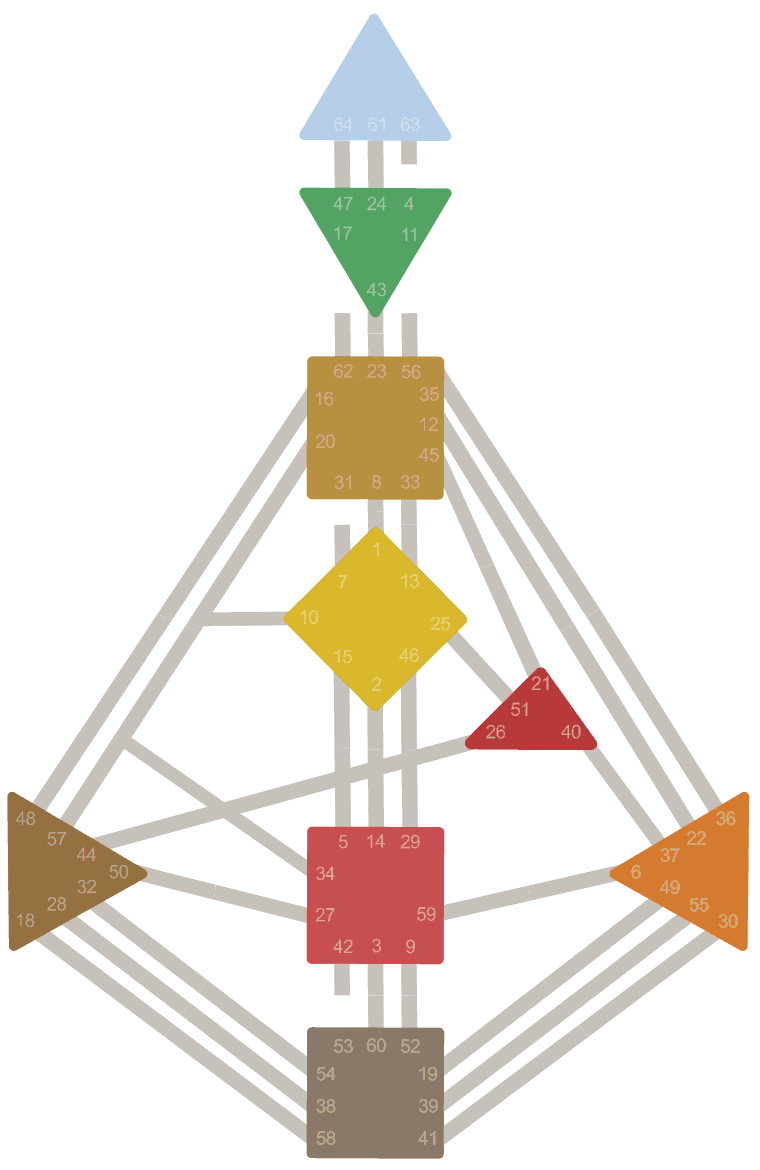
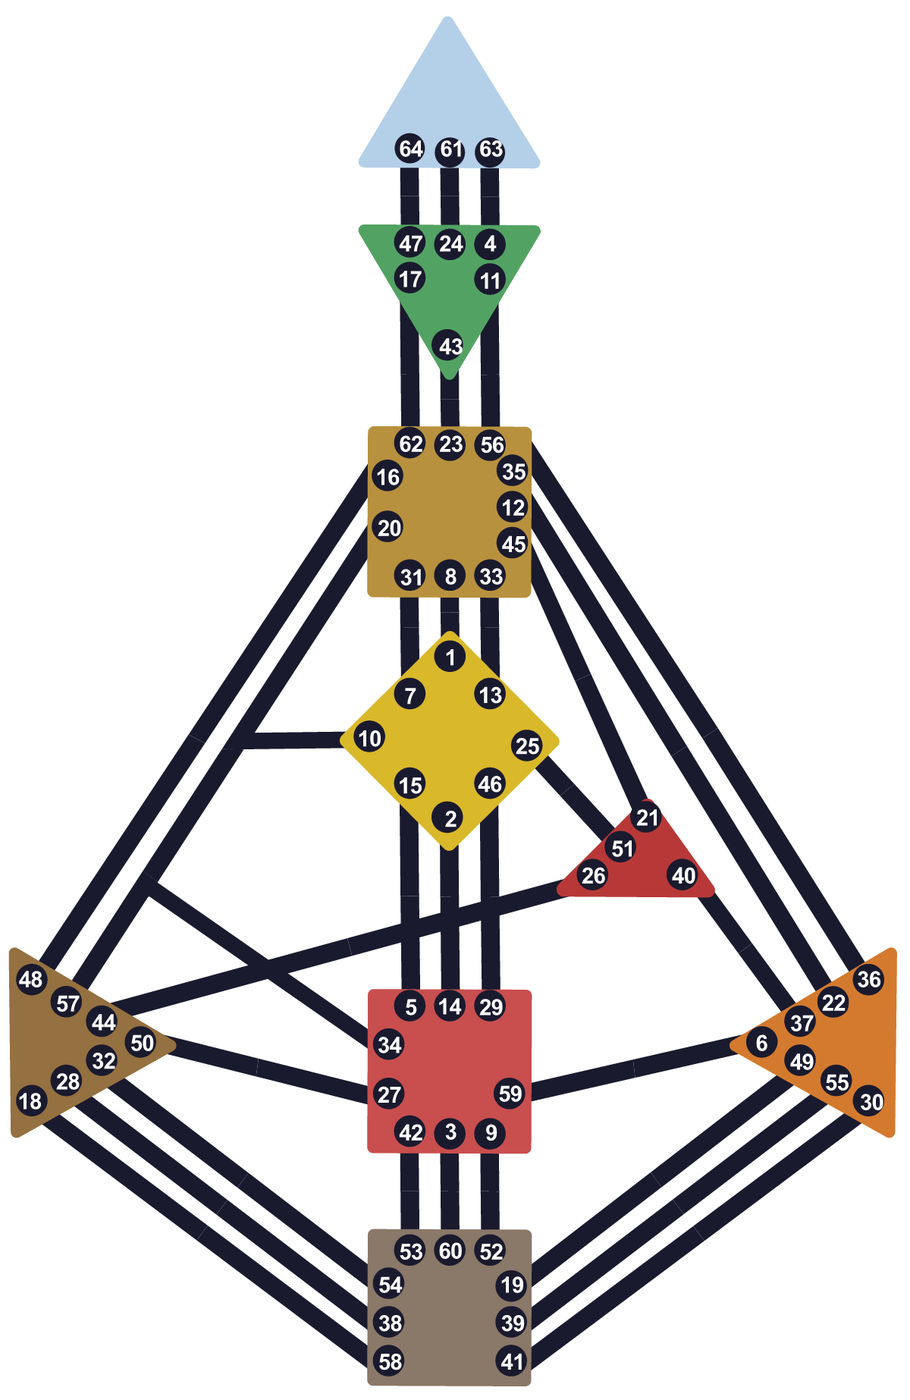
guida: al posto delle illustrazioni, lo zoom sul centro vero del bodygraph
Ogni pagina dei Centri mostra ora un ritaglio del bodygraph sul centro di
cui parla, con le sue porte numerate. La pagina indice mostra la carta
intera. Nuovo script zoom_centri.py per rigenerarle.

Sistemato anche il renderer: nel riordinare i canali riconosceva solo path
e polygon, cosi le cinque porte disegnate come polyline (4, 11, 17, 31, 53)
sparivano dalle immagini PNG e dai PDF del Libretto. Ora riconosce anche
le polyline e, se un elemento resta non riconosciuto, lascia il gruppo
com'e invece di riscriverlo perdendo pezzi.

Il calcolatore nel browser non era toccato: colora per id, che funziona
anche sulle polyline.

Antigravity-Session-ID: 0987b7a5-5ad3-4a1c-a0b9-eafe66b303f5
Antigravity-Session-Path: C:\Users\marco\.gemini\antigravity\brain\0987b7a5-5ad3-4a1c-a0b9-eafe66b303f5

Changed region(s): [[0.0, 0.0923, 0.9987, 0.9846]]

diff --git a/tools/bg5-generator/zoom_centri.py b/tools/bg5-generator/zoom_centri.py
@@ -1,0 +1,127 @@
+# -*- coding: utf-8 -*-
+"""Genera le immagini della guida ai 9 Centri: uno zoom del bodygraph vero
+sul centro di cui parla la pagina, piu' la carta intera per la pagina indice.
+
+    py tools/bg5-generator/zoom_centri.py
+"""
+import io
+import os
+import sys
+
+from PIL import Image
+
+sys.path.insert(0, os.path.dirname(os.path.abspath(__file__)))
+import bodygraph_svg as bg
+
+RADICE_PAGINE = os.path.join(
+    os.path.dirname(os.path.dirname(os.path.dirname(os.path.abspath(__file__)))),
+    "grav-site", "user", "pages", "human-design", "01.centri",
+)
+
+# Porte di ogni centro, come sono disegnate nel chart.svg
+PORTE = {
+    "HEAD":   [64, 61, 63],
+    "AJNA":   [47, 24, 4, 11, 43, 17],
+    "THROAT": [62, 23, 56, 35, 12, 45, 33, 8, 31, 20, 16],
+    "G":      [1, 2, 7, 13, 10, 15, 25, 46],
+    "HEART":  [21, 26, 40, 51],
+    "SPLEEN": [48, 57, 44, 50, 32, 28, 18],
+    "SACRAL": [34, 5, 14, 29, 59, 9, 3, 42, 27],
+    "SOLAR":  [6, 22, 30, 36, 37, 49, 55],
+    "ROOT":   [58, 38, 54, 53, 60, 52, 19, 39, 41],
+}
+
+# cartella della pagina -> (codice centro, slug del file)
+PAGINE = [
+    ("01.sacrale",       "SACRAL", "sacrale"),
+    ("02.gola",          "THROAT", "gola"),
+    ("03.plesso-solare", "SOLAR",  "plesso-solare"),
+    ("04.milza",         "SPLEEN", "milza"),
+    ("05.radice",        "ROOT",   "radice"),
+    ("06.cuore",         "HEART",  "cuore"),
+    ("07.g",             "G",      "g"),
+    ("08.ajna",          "AJNA",   "ajna"),
+    ("09.testa",         "HEAD",   "testa"),
+]
+
+LARGHEZZA_RENDER = 2400   # render pieno, poi si ritaglia
+LATO_MAX = 1100           # lato lungo dell'immagine finale
+PADDING = 0.34            # aria attorno al centro
+
+
+def su_fondo_bianco(img):
+    """Appiattisce la trasparenza su bianco: la scheda della pagina e' bianca."""
+    if img.mode in ("RGBA", "LA"):
+        fondo = Image.new("RGB", img.size, (255, 255, 255))
+        fondo.paste(img, mask=img.split()[-1])
+        return fondo
+    return img.convert("RGB")
+
+
+def ridimensiona(img, lato_max=LATO_MAX):
+    w, h = img.size
+    if max(w, h) <= lato_max:
+        return img
+    k = lato_max / max(w, h)
+    return img.resize((round(w * k), round(h * k)), Image.LANCZOS)
+
+
+def zoom_centro(codice):
+    """Ritaglio quadrato con il centro sempre in mezzo.
+
+    Non uso crop_center_png perche' clampa il riquadro ai bordi della tela:
+    Milza e Plesso Solare stanno sul bordo del bodygraph e finirebbero
+    schiacciati contro il lato dell'immagine. Qui il quadrato puo' uscire
+    dalla tela e lo spazio in piu' resta bianco.
+    """
+    porte = PORTE[codice]
+    png = bg.render_bodygraph_png(
+        {"p_gates": set(porte), "d_gates": set(), "defined_centers": {codice}},
+        width=LARGHEZZA_RENDER,
+    )
+    img = su_fondo_bianco(Image.open(io.BytesIO(png)))
+    larg, alt = img.size
+    sx = larg / bg.SVG_VIEWBOX_W
+    sy = alt / bg.SVG_VIEWBOX_H
+
+    x0, y0, x1, y1 = bg.CENTER_BBOX_SVG[codice]
+    cx, cy = (x0 + x1) / 2, (y0 + y1) / 2
+    lato = max(x1 - x0, y1 - y0) * (1 + 2 * PADDING) / 2
+
+    riquadro = (
+        round((cx - lato) * sx), round((cy - lato) * sy),
+        round((cx + lato) * sx), round((cy + lato) * sy),
+    )
+    tela = Image.new("RGB", (riquadro[2] - riquadro[0], riquadro[3] - riquadro[1]), (255, 255, 255))
+    tela.paste(img, (-riquadro[0], -riquadro[1]))
+    return ridimensiona(tela)
+
+
+def carta_intera():
+    tutte = set(range(1, 65))
+    png = bg.render_bodygraph_png(
+        {"p_gates": tutte, "d_gates": set(), "defined_centers": set(PORTE)},
+        width=1200,
+    )
+    img = Image.open(io.BytesIO(png))
+    return ridimensiona(su_fondo_bianco(img), 1400)
+
+
+def salva(img, percorso):
+    img.save(percorso, format="PNG", optimize=True)
+    return os.path.getsize(percorso) // 1024
+
+
+def main():
+    for cartella, codice, slug in PAGINE:
+        d = os.path.join(RADICE_PAGINE, cartella)
+        nuovo = os.path.join(d, "centro-%s-human-design.png" % slug)
+        peso = salva(zoom_centro(codice), nuovo)
+        print("%-18s %-7s %s  %s kB" % (cartella, codice, os.path.basename(nuovo), peso))
+
+    hub = os.path.join(RADICE_PAGINE, "i-9-centri-human-design.png")
+    print("indice             TUTTI   %s  %s kB" % (os.path.basename(hub), salva(carta_intera(), hub)))
+
+
+if __name__ == "__main__":
+    main()

diff --git a/tools/bg5-generator/bodygraph_svg.py b/tools/bg5-generator/bodygraph_svg.py
@@ -181,11 +181,56 @@ def build_style_rules(activations: dict) -> str:
     return "\n".join(rules)
 
 
+# ─── Ordine di disegno canali (z-index) ───────────────────────────────────────
+#
+# Vicino al gate 10 (snodo/bridge G-Sacrale) piu' segmenti del template si
+# sovrappongono nello stesso punto: connettori del canale attivo (es. 20-34,
+# che nella geometria hdkit deve "piegare" proprio li') e lo strip del gate 10
+# stesso quando NON e' attivo. Nel template grezzo l'ordine di disegno e'
+# fisso e puo' far finire un segmento grigio inattivo sopra un canale colorato,
+# coprendolo visivamente. Fix: sposta in fondo al gruppo (= sopra, in ordine
+# di paint SVG) tutti i segmenti che appartengono a un canale attivo.
+
+def _reorder_channels_zindex(svg_text: str, activations: dict) -> str:
+    p_gates = set(activations.get("p_gates", []))
+    d_gates = set(activations.get("d_gates", []))
+    active_gates = p_gates | d_gates
+    span_active = any(g in active_gates for g in INTEGRATION_GATES)
+
+    m = re.search(r'<g id="Channels">(.*?)</g>', svg_text, re.DOTALL)
+    if not m:
+        return svg_text
+    elements = re.findall(r'<(?:path|polygon|polyline)[^>]*?/>', m.group(1))
+    if not elements:
+        return svg_text
+    # Il gruppo viene riscritto da zero: se un elemento non e' stato riconosciuto
+    # sparirebbe dal disegno senza errore. Meglio non riordinare che perdere pezzi.
+    if len(elements) != m.group(1).count("<"):
+        return svg_text
+
+    def is_active(el: str) -> bool:
+        gm = re.search(r'id="Gate(\d+)"', el)
+        if gm:
+            return int(gm.group(1)) in active_gates
+        cm = re.search(r'id="GateConnect(\d+)"', el)
+        if cm:
+            return int(cm.group(1)) in active_gates
+        if 'id="GateSpan"' in el:
+            return span_active
+        return False
+
+    inactive = [e for e in elements if not is_active(e)]
+    active = [e for e in elements if is_active(e)]
+    new_inner = "\n    " + "\n    ".join(inactive + active) + "\n  "
+    return svg_text[:m.start()] + f'<g id="Channels">{new_inner}</g>' + svg_text[m.end():]
+
+
 # ─── Inject stile nel template SVG ────────────────────────────────────────────
 
 def build_colored_svg(activations: dict, template_path: Path = CHART_SVG_PATH) -> str:
-    """Restituisce la stringa SVG completa, con lo stile iniettato."""
+    """Restituisce la stringa SVG completa, con canali riordinati (z-index) e stile iniettato."""
     svg_text = template_path.read_text(encoding="utf-8")
+    svg_text = _reorder_channels_zindex(svg_text, activations)
     style_block = build_style_rules(activations)
     style_el = f"<style><![CDATA[\n{style_block}\n]]></style>"
 

diff --git a/grav-site/user/pages/human-design/01.centri/01.sacrale/glossario.md b/grav-site/user/pages/human-design/01.centri/01.sacrale/glossario.md
@@ -8,8 +8,8 @@ seo_title: "Centro Sacrale definito o indefinito: cosa significa nella tua carta
 seo_desc: "Il Centro Sacrale nello Human Design: come si vive con il sacrale definito, cosa cambia se è bianco, la risposta sacrale e il segnale di quando fermarsi."
 description: "Il motore più potente del bodygraph. Se è colorato hai energia rinnovabile e una risposta del corpo; se è bianco devi imparare quando basta."
 richiamo: "Se ti sei riconosciuto nel non sapere quando fermarti, il <a href=\"/libretto-istruzioni\">Libretto d&rsquo;Istruzioni</a> ha un capitolo scritto sulla tua carta: dove la tua energia si ricarica e dove la stai prendendo in prestito."
-didascalia: "Il Centro Sacrale definito, con le sue nove porte"
-alt_immagine: "Bodygraph con il Centro Sacrale colorato e le sue nove porte"
+didascalia: "Il Centro Sacrale e le sue nove porte"
+alt_immagine: "Dettaglio del bodygraph: il Centro Sacrale con le porte 34, 5, 14, 29, 59, 9, 3, 42 e 27"
 chiusa_titolo: "Il tuo Sacrale è colorato?"
 chiusa_testo: "Il calcolo gratuito ti mostra il bodygraph con i centri definiti e quelli bianchi, in pochi secondi."
 faq:

diff --git a/grav-site/user/pages/human-design/01.centri/03.plesso-solare/glossario.md b/grav-site/user/pages/human-design/01.centri/03.plesso-solare/glossario.md
@@ -8,8 +8,8 @@ seo_title: "Plesso Solare Human Design: l'onda emotiva e cosa cambia se è bianc
 seo_desc: "Il Plesso Solare nello Human Design: l'onda emotiva di chi lo ha definito, l'amplificazione delle emozioni altrui di chi lo ha aperto, l'Autorità Emotiva."
 description: "Il centro delle emozioni. Chi lo ha definito non ha mai la verità adesso: gli arriva col tempo, attraversando l'onda."
 richiamo: "Se decidi spesso a caldo e poi te ne penti, il <a href=\"/libretto-istruzioni\">Libretto d&rsquo;Istruzioni</a> ti dice se hai l&rsquo;Autorit&agrave; Emotiva e quanto tempo ti serve davvero prima di rispondere."
-didascalia: "Il Plesso Solare: l'onda emotiva che attraversa la giornata"
-alt_immagine: "Illustrazione di una figura seduta con un'onda che le attraversa il petto"
+didascalia: "Il Plesso Solare e le sue sette porte"
+alt_immagine: "Dettaglio del bodygraph: il Plesso Solare con le porte 6, 22, 30, 36, 37, 49 e 55"
 chiusa_titolo: "Decidi nell'onda o nell'istante?"
 chiusa_testo: "Nella Prima Lettura vediamo la tua Autorità Decisionale e come si applica alle scelte che stai rimandando."
 faq:

diff --git a/grav-site/user/pages/human-design/01.centri/05.radice/glossario.md b/grav-site/user/pages/human-design/01.centri/05.radice/glossario.md
@@ -8,8 +8,8 @@ seo_title: "Centro della Radice Human Design: pressione, fretta e stress"
 seo_desc: "Il Centro della Radice nello Human Design: la pressione costante di chi lo ha definito e la fretta cronica di chi lo ha bianco."
 description: "Il motore che mette sotto pressione tutta la carta. È il centro che decide se vivi di corsa o a ritmo."
 richiamo: "Se vivi con la sensazione di essere sempre in ritardo, il <a href=\"/libretto-istruzioni\">Libretto d&rsquo;Istruzioni</a> ti mostra dove nasce quella fretta e quanta di quella pressione &egrave; davvero tua."
-didascalia: "Il Centro della Radice: la pressione che spinge dal basso"
-alt_immagine: "Illustrazione di una figura con il Centro della Radice illuminato alla base della schiena"
+didascalia: "Il Centro della Radice e le sue nove porte"
+alt_immagine: "Dettaglio del bodygraph: il Centro della Radice con le porte 58, 38, 54, 53, 60, 52, 19, 39 e 41"
 chiusa_titolo: "Quella fretta è tua?"
 chiusa_testo: "Nella Prima Lettura guardiamo dove il tuo disegno assorbe pressione dagli altri e come si smette di correre per conto di qualcun altro."
 faq:

diff --git a/grav-site/user/pages/human-design/01.centri/02.gola/glossario.md b/grav-site/user/pages/human-design/01.centri/02.gola/glossario.md
@@ -8,8 +8,8 @@ seo_title: "Centro della Gola Human Design: definito o indefinito, cosa cambia"
 seo_desc: "Il Centro della Gola nello Human Design: la voce costante di chi lo ha definito, la versatilità e la fretta di parlare di chi lo ha bianco."
 description: "Il punto da cui l'energia esce nel mondo, come parola o come azione. È il centro più collegato di tutta la carta."
 richiamo: "Se ti riconosci nel parlare per riempire i silenzi, il <a href=\"/libretto-istruzioni\">Libretto d&rsquo;Istruzioni</a> spiega quando la tua voce ha davvero qualcosa da dire e quando sta solo cercando attenzione."
-didascalia: "Il Centro della Gola: dove l'energia diventa voce"
-alt_immagine: "Illustrazione di una figura di profilo con il Centro della Gola illuminato"
+didascalia: "Il Centro della Gola e le sue undici porte"
+alt_immagine: "Dettaglio del bodygraph: il Centro della Gola con le porte 62, 23, 56, 35, 12, 45, 33, 8, 31, 20 e 16"
 chiusa_titolo: "La tua Gola è colorata?"
 chiusa_testo: "Nella Prima Lettura vediamo come funziona davvero la tua voce: quando è tua e quando stai parlando per gli altri."
 faq:

diff --git a/grav-site/user/pages/human-design/01.centri/06.cuore/glossario.md b/grav-site/user/pages/human-design/01.centri/06.cuore/glossario.md
@@ -8,8 +8,8 @@ seo_title: "Centro del Cuore Human Design: forza di volontà, valore, promesse"
 seo_desc: "Il Centro del Cuore (Ego) nello Human Design: la volontà affidabile di chi lo ha definito e il bisogno di dimostrare il proprio valore di chi lo ha bianco."
 description: "Il centro della forza di volontà e del valore. Sette persone su dieci ce l'hanno bianco, e passano la vita a dimostrare qualcosa."
 richiamo: "Se ti prendi impegni che poi ti pesano, il <a href=\"/libretto-istruzioni\">Libretto d&rsquo;Istruzioni</a> ti mostra dove stai promettendo per dimostrare invece che per volont&agrave; vera."
-didascalia: "Il Centro del Cuore: la volontà che va e viene a cicli"
-alt_immagine: "Illustrazione di una figura con il Centro del Cuore illuminato nel petto"
+didascalia: "Il Centro del Cuore e le sue quattro porte"
+alt_immagine: "Dettaglio del bodygraph: il Centro del Cuore con le porte 21, 26, 40 e 51"
 chiusa_titolo: "Il tuo Cuore è definito?"
 chiusa_testo: "Nella Prima Lettura vediamo dove ti stai sovraccaricando per dimostrare un valore che non ha bisogno di prove."
 faq:

diff --git a/grav-site/user/pages/human-design/01.centri/09.testa/glossario.md b/grav-site/user/pages/human-design/01.centri/09.testa/glossario.md
@@ -8,8 +8,8 @@ seo_title: "Centro della Testa Human Design: pressione mentale e ispirazione"
 seo_desc: "Il Centro della Testa nello Human Design: l'ispirazione costante di chi lo ha definito e la pressione a rispondere a domande non proprie di chi lo ha bianco."
 description: "Il centro della pressione mentale. Sette persone su dieci ce l'hanno bianco e passano la vita a rispondere a domande che non sono loro."
 richiamo: "Se la tua testa non si spegne mai, il <a href=\"/libretto-istruzioni\">Libretto d&rsquo;Istruzioni</a> ti mostra quali domande sono davvero tue e quali stai portando per conto di qualcun altro."
-didascalia: "Il Centro della Testa: la pressione che spinge verso il basso"
-alt_immagine: "Illustrazione di una figura con il Centro della Testa illuminato sopra la fronte"
+didascalia: "Il Centro della Testa e le sue tre porte"
+alt_immagine: "Dettaglio del bodygraph: il Centro della Testa con le porte 64, 61 e 63"
 chiusa_titolo: "La tua Testa è definita?"
 chiusa_testo: "Nella Prima Lettura vediamo da dove arriva la pressione mentale che senti e cosa farne."
 faq:

diff --git a/grav-site/user/pages/human-design/01.centri/04.milza/glossario.md b/grav-site/user/pages/human-design/01.centri/04.milza/glossario.md
@@ -8,8 +8,8 @@ seo_title: "Centro della Milza Human Design: istinto, paura e Autorità Splenica
 seo_desc: "Il Centro della Milza nello Human Design: l'istinto costante di chi lo ha definito, le paure amplificate e le abitudini che restano di chi lo ha bianco."
 description: "Il centro dell'istinto e della sopravvivenza. Parla una volta sola, sottovoce, e non ripete."
 richiamo: "Se ti sei accorto di tenerti addosso cose che non ti fanno bene, il <a href=\"/libretto-istruzioni\">Libretto d&rsquo;Istruzioni</a> ti mostra dove il tuo corpo ti sta dando segnali che stai zittendo."
-didascalia: "Il Centro della Milza: l'istinto che parla una volta sola"
-alt_immagine: "Illustrazione di una figura con il Centro della Milza illuminato sul fianco"
+didascalia: "Il Centro della Milza e le sue sette porte"
+alt_immagine: "Dettaglio del bodygraph: il Centro della Milza con le porte 48, 57, 44, 50, 32, 28 e 18"
 chiusa_titolo: "La tua Milza è definita?"
 chiusa_testo: "Nella Prima Lettura vediamo se il tuo istinto è una guida affidabile o un segnale che stai prendendo in prestito."
 faq:

diff --git a/grav-site/user/pages/human-design/01.centri/08.ajna/glossario.md b/grav-site/user/pages/human-design/01.centri/08.ajna/glossario.md
@@ -8,8 +8,8 @@ seo_title: "Centro Ajna Human Design: mente fissa o mente flessibile"
 seo_desc: "Il Centro Ajna nello Human Design: il modo fisso di pensare di chi lo ha definito e l'ansia da certezza di chi lo ha bianco."
 description: "Il centro che elabora i pensieri. Definito ti dà un punto di vista stabile, aperto ti dà una mente che cambia forma."
 richiamo: "Se ti capita di fingere certezze che non hai, il <a href=\"/libretto-istruzioni\">Libretto d&rsquo;Istruzioni</a> ti mostra perch&eacute; la tua mente &egrave; fatta per restare aperta e perch&eacute; non &egrave; un problema da risolvere."
-didascalia: "Il Centro Ajna: dove i pensieri prendono forma"
-alt_immagine: "Illustrazione di una figura con il Centro Ajna illuminato tra le sopracciglia"
+didascalia: "Il Centro Ajna e le sue sei porte"
+alt_immagine: "Dettaglio del bodygraph: il Centro Ajna con le porte 47, 24, 4, 11, 43 e 17"
 chiusa_titolo: "La tua Ajna è definita?"
 chiusa_testo: "Nella Prima Lettura vediamo come funziona la tua mente e perché non è lei a dover prendere le decisioni."
 faq:

diff --git a/grav-site/user/pages/human-design/01.centri/07.g/glossario.md b/grav-site/user/pages/human-design/01.centri/07.g/glossario.md
@@ -8,8 +8,8 @@ seo_title: "Centro G Human Design: identità, direzione e amore"
 seo_desc: "Il Centro G nello Human Design: l'identità stabile di chi lo ha definito e l'identità fluida, legata all'ambiente, di chi lo ha bianco."
 description: "Il centro dell'identità, della direzione e dell'amore. Se è bianco, chi hai intorno determina chi sei."
 richiamo: "Se ti sei chiesto pi&ugrave; volte chi sei davvero, il <a href=\"/libretto-istruzioni\">Libretto d&rsquo;Istruzioni</a> ti mostra come il tuo disegno usa i luoghi e le persone per trovare la direzione."
-didascalia: "Il Centro G: identità e direzione, al centro della carta"
-alt_immagine: "Illustrazione di una figura con il Centro G illuminato al centro del petto"
+didascalia: "Il Centro G e le sue otto porte"
+alt_immagine: "Dettaglio del bodygraph: il Centro G con le porte 1, 2, 7, 13, 10, 15, 25 e 46"
 chiusa_titolo: "Il tuo Centro G è colorato?"
 chiusa_testo: "Nella Prima Lettura guardiamo come trovi la tua direzione: dall'interno o attraverso i luoghi e le persone giuste."
 faq:

diff --git a/grav-site/user/pages/human-design/01.centri/glossario.md b/grav-site/user/pages/human-design/01.centri/glossario.md
@@ -9,8 +9,8 @@ titolo_figlie: "Uno per uno"
 seo_title: "I 9 Centri Human Design: definiti, indefiniti e cosa cambia"
 seo_desc: "I nove centri del bodygraph uno per uno: cosa fa ciascuno, come si vive da definito e da indefinito, e dove nasce il condizionamento."
 description: "I nove centri sono la struttura del bodygraph. Quali hai colorati e quali bianchi decide dove sei costante e dove assorbi l'energia degli altri."
-didascalia: "I nove centri del bodygraph: quando sono definiti si colorano"
-alt_immagine: "Bodygraph con i nove centri dello Human Design tutti definiti"
+didascalia: "Il bodygraph con i nove Centri e le sessantaquattro porte"
+alt_immagine: "Il bodygraph dello Human Design con i nove Centri colorati e le sessantaquattro porte numerate"
 chiusa_titolo: "Quali centri hai definiti?"
 chiusa_testo: "Il calcolo è gratuito e ti mostra il bodygraph completo, con i centri colorati e quelli bianchi."
 faq:
